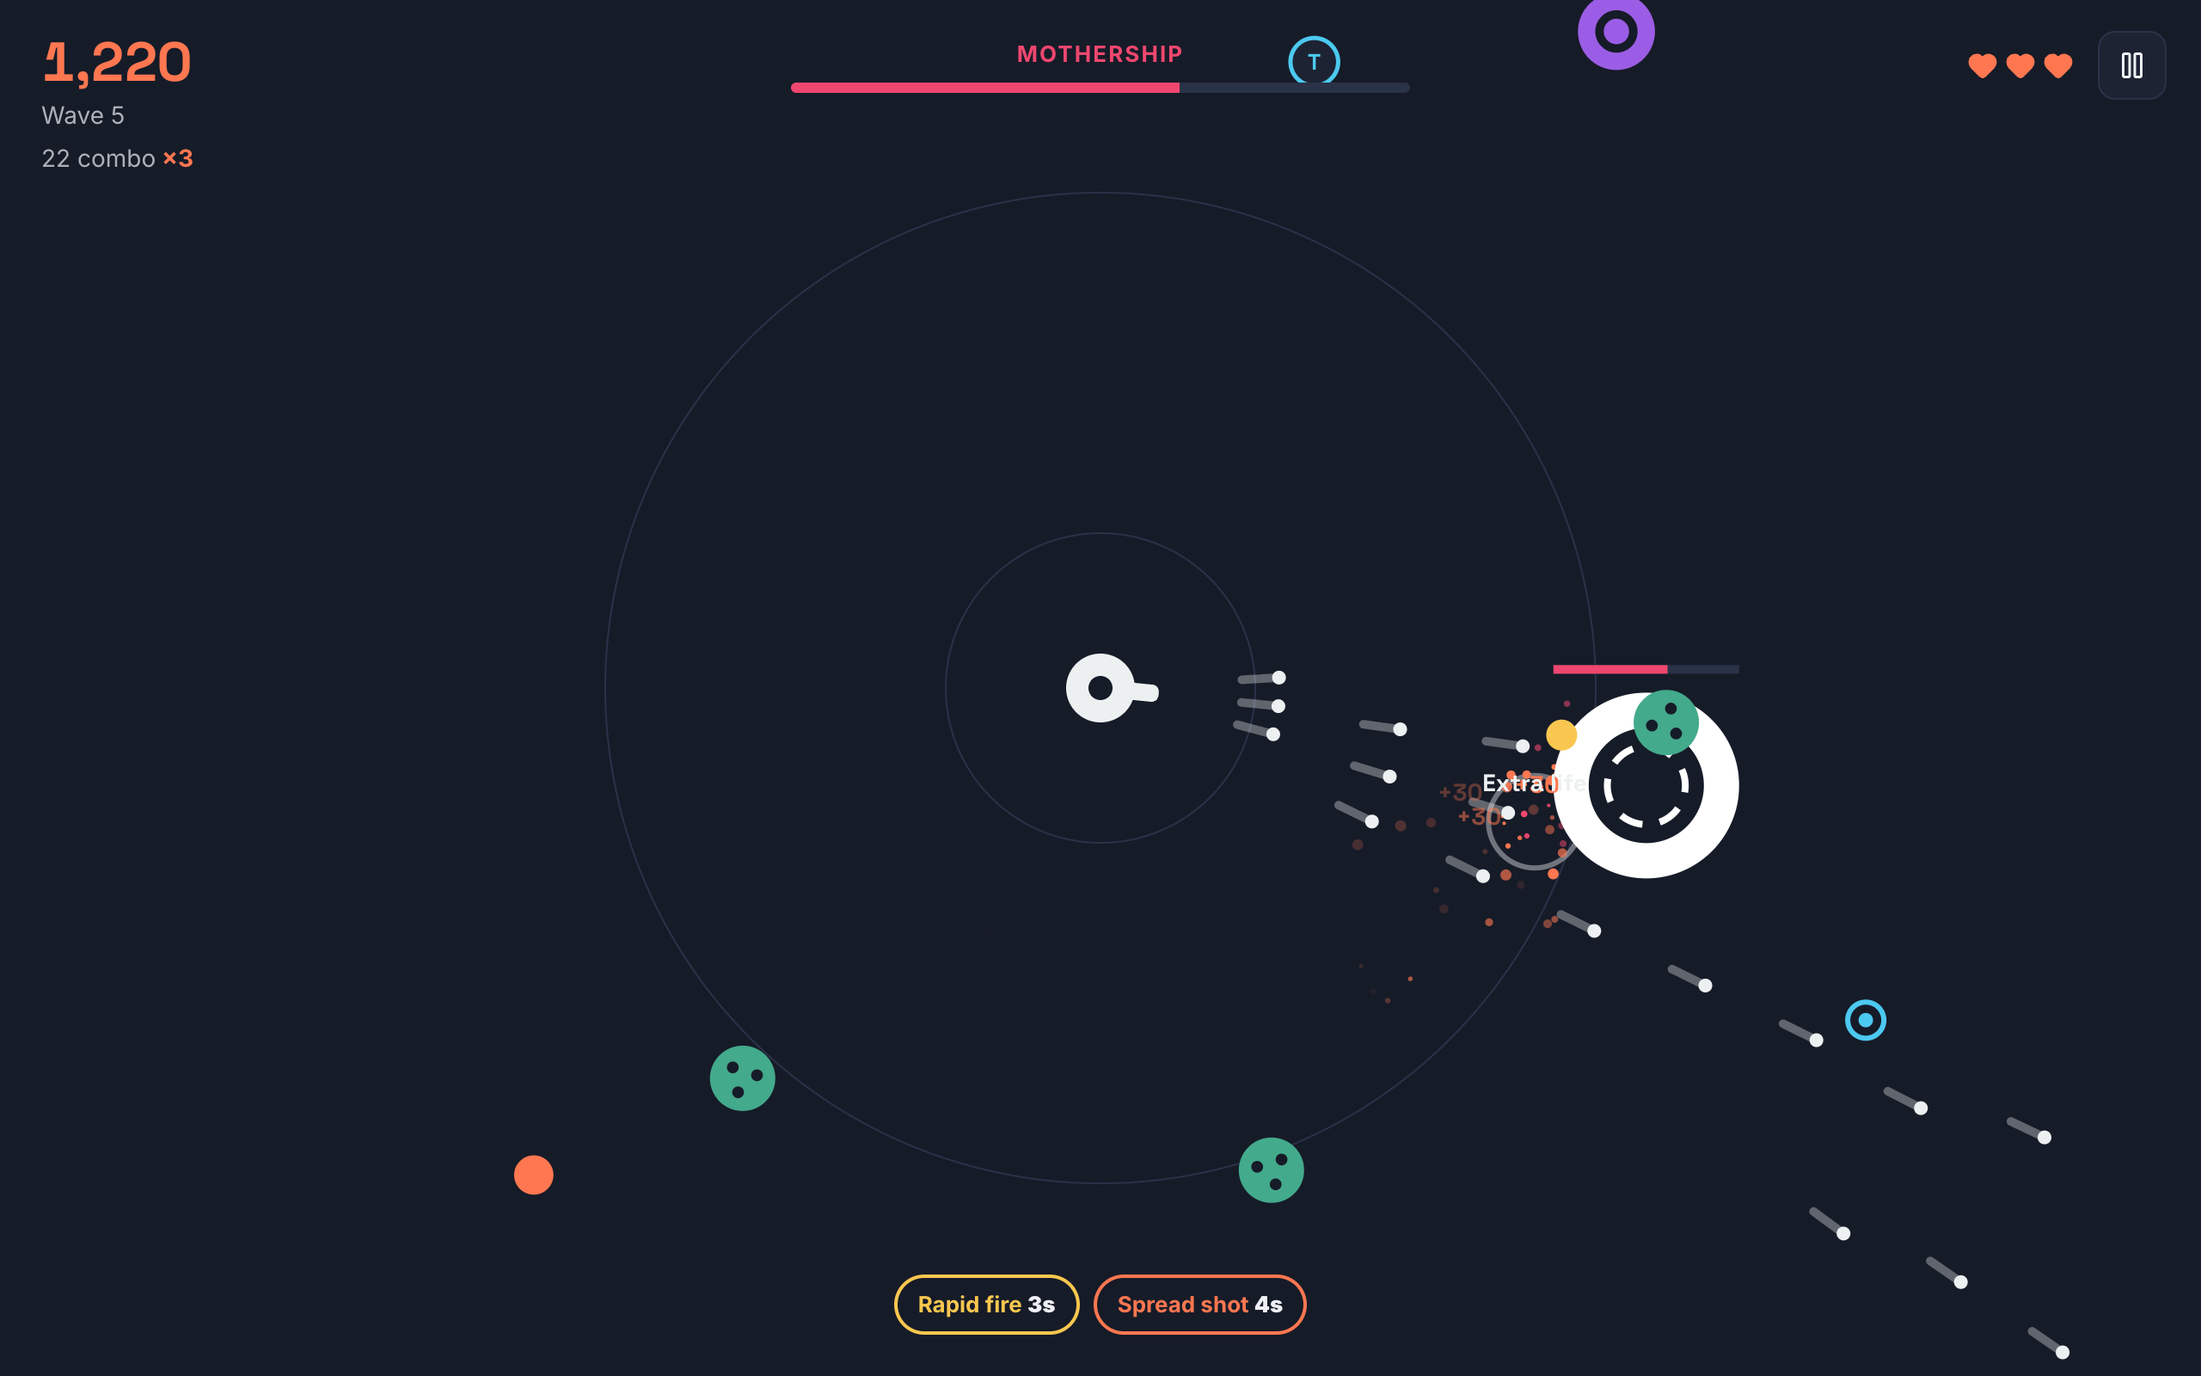
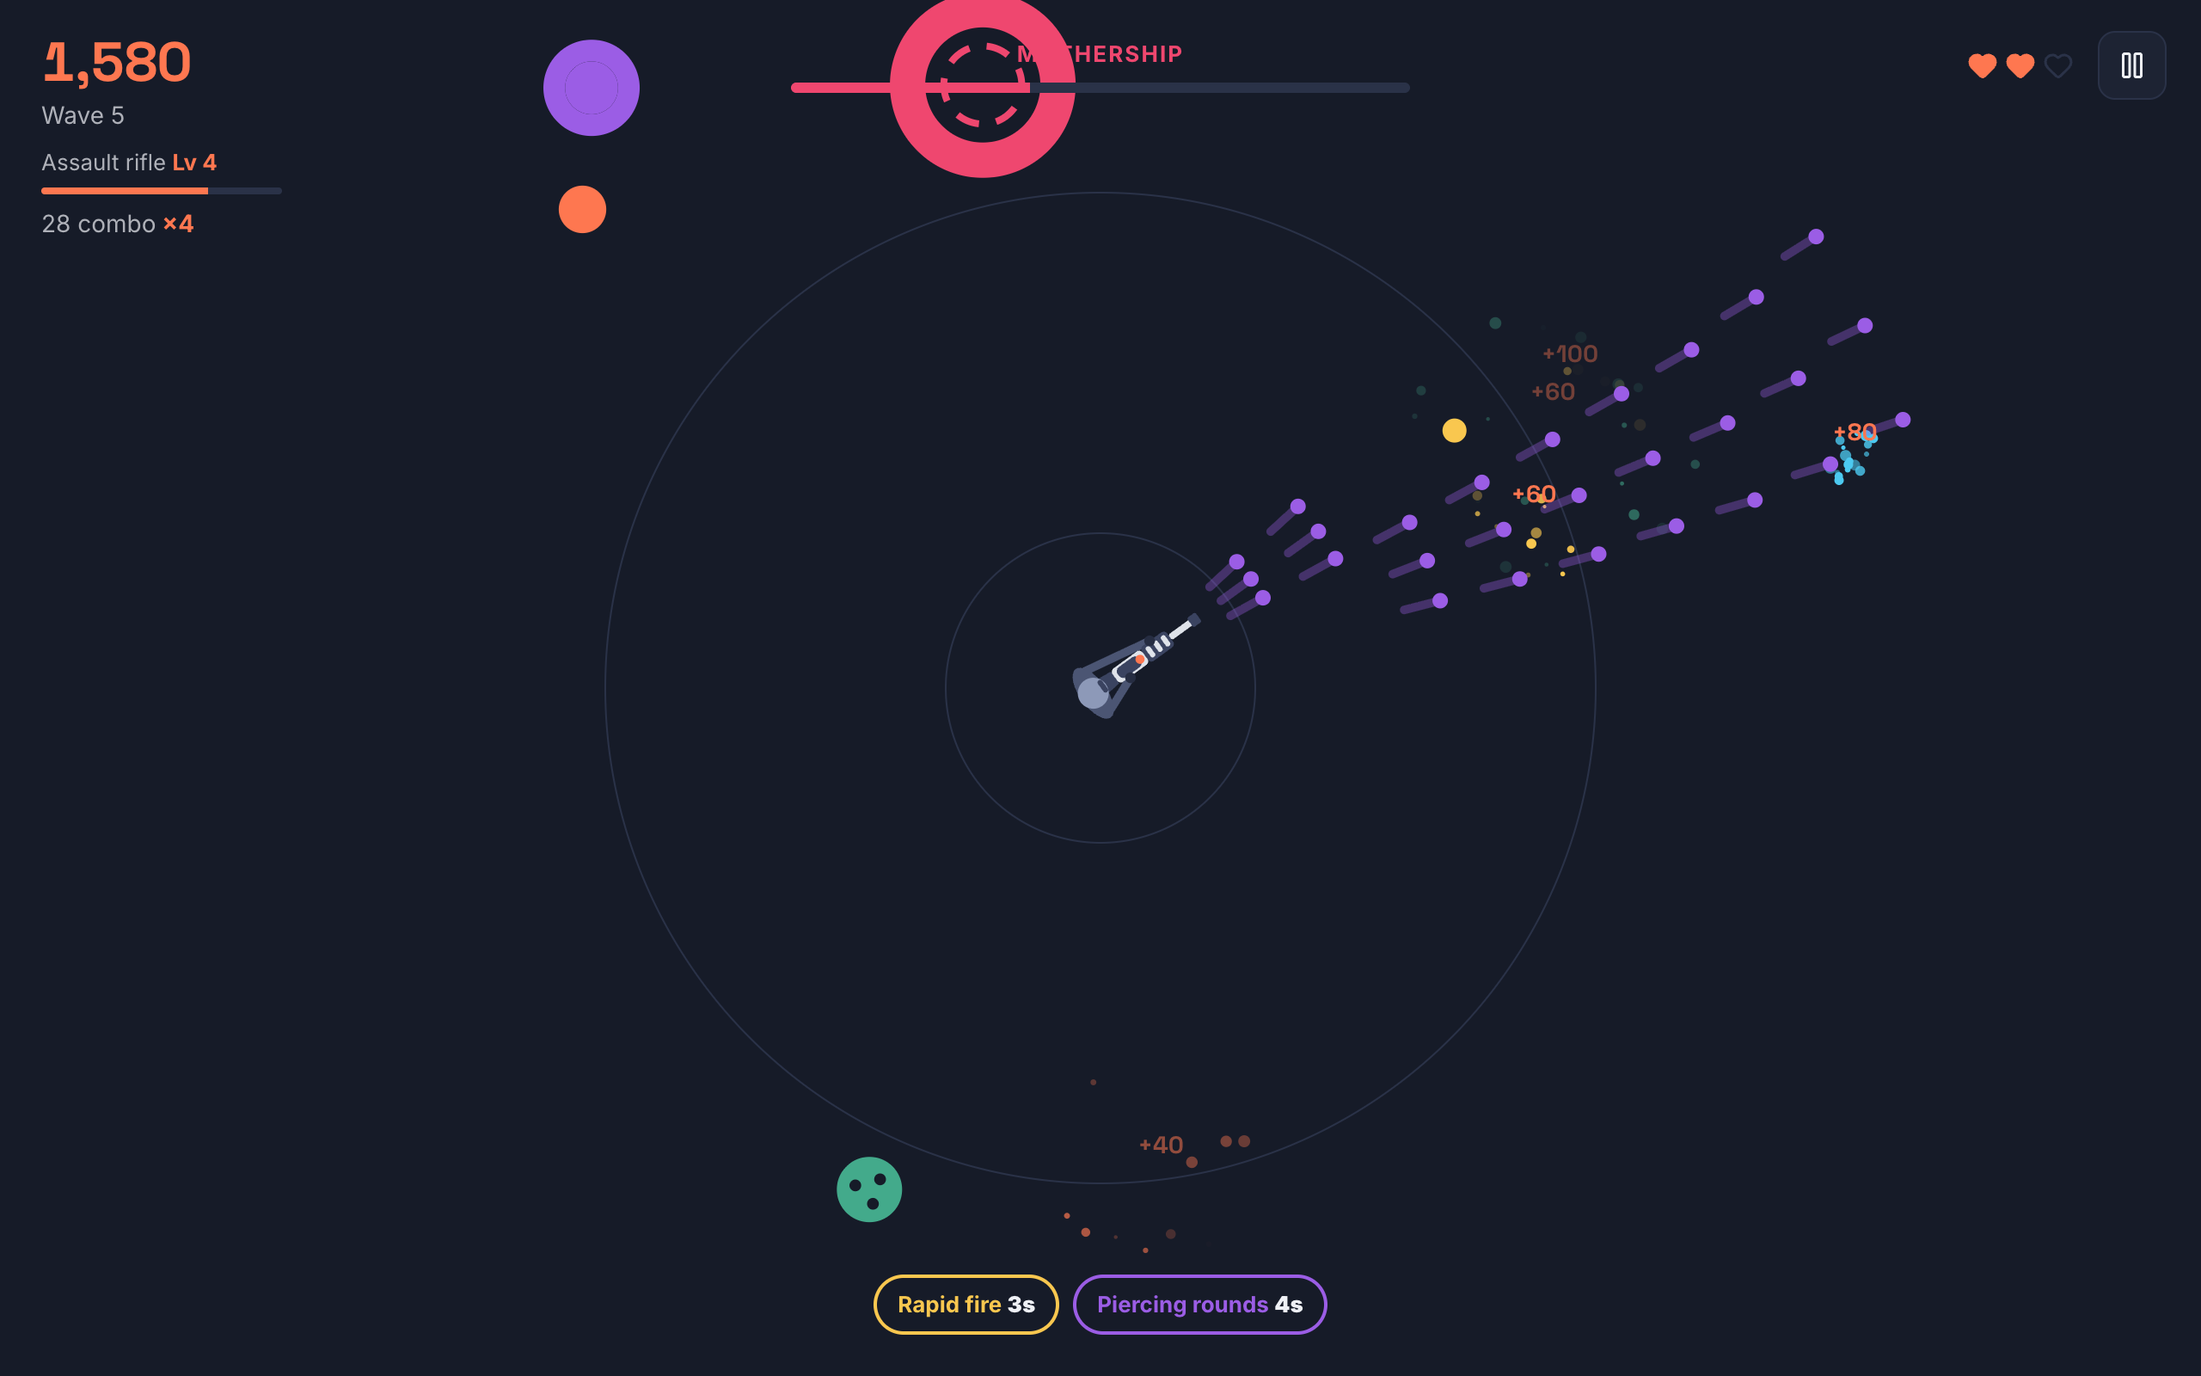
A gunner seen from above holding real-looking guns, with recoil and muzzle flash

diff --git a/lib/game/guns.ts b/lib/game/guns.ts
@@ -1,0 +1,192 @@
+import { COLORS } from "./config"
+
+const STEEL = "#dfe3ea"
+const DARK = "#3a4360"
+const VEST = "#4b5573"
+const GLOVE = "#262d42"
+const WOOD = "#9a6a48"
+const HELMET = "#8d99b8"
+const ACCENT = COLORS.primary
+const FLASH = "#ffd166"
+
+type Ctx = CanvasRenderingContext2D
+type Pt = [number, number]
+
+const box = (ctx: Ctx, x: number, y: number, w: number, h: number, r: number, color: string) => {
+  ctx.fillStyle = color
+  ctx.beginPath()
+  ctx.roundRect(x, y, w, h, r)
+  ctx.fill()
+}
+
+const shape = (ctx: Ctx, points: Pt[], color: string) => {
+  ctx.fillStyle = color
+  ctx.beginPath()
+  points.forEach(([x, y], i) => (i ? ctx.lineTo(x, y) : ctx.moveTo(x, y)))
+  ctx.closePath()
+  ctx.fill()
+}
+
+const dot = (ctx: Ctx, x: number, y: number, r: number, color: string) => {
+  ctx.fillStyle = color
+  ctx.beginPath()
+  ctx.arc(x, y, r, 0, Math.PI * 2)
+  ctx.fill()
+}
+
+const limb = (ctx: Ctx, from: Pt, to: Pt, width: number, color: string) => {
+  ctx.strokeStyle = color
+  ctx.lineWidth = width
+  ctx.lineCap = "round"
+  ctx.beginPath()
+  ctx.moveTo(...from)
+  ctx.lineTo(...to)
+  ctx.stroke()
+}
+
+/** A star-shaped flash in front of a muzzle */
+const flash = (ctx: Ctx, x: number, y: number, size: number) => {
+  shape(ctx, [[x + size * 1.8, y], [x + size * 0.4, y + size * 0.5], [x + size * 0.2, y + size], [x, y + size * 0.3], [x - size * 0.2, y], [x, y - size * 0.3], [x + size * 0.2, y - size], [x + size * 0.4, y - size * 0.5]], FLASH)
+}
+
+/** Guns are drawn this much bigger in the game than their drawing units */
+export const GUN_SCALE = 1.2
+
+/** How far in front of the gunner each muzzle is, so bullets leave from the barrel */
+export const MUZZLE = [36, 44, 54, 60, 64, 66]
+
+/** Where the hands hold each gun: trigger hand and support hand, along the gun */
+const HANDS: Array<[number, number]> = [
+  [16, 20],
+  [14, 28],
+  [16, 30],
+  [16, 34],
+  [16, 36],
+  [12, 30],
+]
+
+/** A gun seen from above, pointing along +x */
+const drawGun = (ctx: Ctx, level: number, spin: number, firing: boolean) => {
+  const m = MUZZLE[level - 1]
+  switch (level) {
+    case 1: {
+      // Pistol: slide with rear and front sights
+      box(ctx, 14, -3, 22, 6, 2, STEEL)
+      box(ctx, 15, -1.5, 3, 3, 1, DARK)
+      box(ctx, 20, -1, 10, 2, 1, DARK)
+      dot(ctx, 34, 0, 1.2, DARK)
+      if (firing) flash(ctx, m + 2, 0, 4.5)
+      break
+    }
+    case 2: {
+      // SMG: folded wire stock, body with a top rail, short barrel
+      ctx.strokeStyle = STEEL
+      ctx.lineWidth = 1.5
+      ctx.strokeRect(2, -3.5, 10, 7)
+      box(ctx, 10, -4, 24, 8, 2.5, STEEL)
+      for (let i = 0; i < 5; i++) box(ctx, 13 + i * 3.6, -1.5, 2, 3, 0.8, DARK)
+      box(ctx, 34, -2, 10, 4, 1, STEEL)
+      box(ctx, 41, -2.8, 3, 5.6, 1, DARK)
+      if (firing) flash(ctx, m + 2, 0, 5.5)
+      break
+    }
+    case 3: {
+      // Double barrel: wooden stock and fore-end, two barrels side by side
+      shape(ctx, [[-2, -5], [10, -4], [10, 4], [-2, 5]], WOOD)
+      box(ctx, 10, -5, 9, 10, 2, DARK)
+      box(ctx, 19, -5.2, 35, 4.4, 2, STEEL)
+      box(ctx, 19, 0.8, 35, 4.4, 2, STEEL)
+      box(ctx, 24, -5.5, 12, 11, 2, WOOD)
+      box(ctx, 52, -5.6, 2.5, 11.2, 1, DARK)
+      if (firing) {
+        flash(ctx, m + 2, -3, 4.5)
+        flash(ctx, m + 2, 3, 4.5)
+      }
+      break
+    }
+    case 4: {
+      // Assault rifle: stock, receiver with a scope, vented handguard, muzzle brake
+      shape(ctx, [[-4, -5], [10, -3.5], [10, 3.5], [-4, 5]], DARK)
+      box(ctx, 10, -4, 18, 8, 2, STEEL)
+      box(ctx, 12, -3, 13, 6, 2.5, DARK)
+      dot(ctx, 25, 0, 2.2, ACCENT)
+      box(ctx, 28, -4.5, 15, 9, 2, DARK)
+      for (let i = 0; i < 3; i++) box(ctx, 30 + i * 4.5, -3, 2.5, 6, 1, STEEL)
+      box(ctx, 43, -1.6, 13, 3.2, 1, STEEL)
+      box(ctx, 55, -2.8, 5, 5.6, 1, DARK)
+      if (firing) flash(ctx, m + 2, 0, 6)
+      break
+    }
+    case 5: {
+      // Machine gun: side-mounted ammo box, perforated shroud, folded bipod
+      shape(ctx, [[-4, -6], [10, -5], [10, 5], [-4, 6]], DARK)
+      box(ctx, 13, 5, 12, 9, 2, DARK)
+      box(ctx, 13, 8, 12, 2.5, 0, ACCENT)
+      box(ctx, 10, -5.5, 20, 11, 2.5, STEEL)
+      box(ctx, 13, -3.5, 12, 7, 2, DARK)
+      box(ctx, 30, -5, 22, 10, 2.5, DARK)
+      for (let i = 0; i < 4; i++) {
+        dot(ctx, 34 + i * 5, -2.2, 1.2, STEEL)
+        dot(ctx, 34 + i * 5, 2.2, 1.2, STEEL)
+      }
+      box(ctx, 34, -6.8, 14, 1.6, 0.8, STEEL)
+      box(ctx, 34, 5.2, 14, 1.6, 0.8, STEEL)
+      box(ctx, 52, -2, 7, 4, 1, STEEL)
+      box(ctx, 58, -3.5, 6, 7, 1.5, ACCENT)
+      if (firing) flash(ctx, m + 2, 0, 7)
+      break
+    }
+    default: {
+      // Minigun: motor housing, a cluster of spinning barrels held by clamps
+      box(ctx, 4, -8, 14, 16, 4, DARK)
+      box(ctx, 16, -7, 10, 14, 3, STEEL)
+      // The barrel cluster seen from above: the shaded one moves as they spin
+      const lit = Math.floor(spin) % 4
+      for (let i = 0; i < 4; i++) box(ctx, 26, -5.6 + i * 3, 37, 2.4, 1, i === lit ? VEST : STEEL)
+      box(ctx, 36, -7, 3.5, 14, 1.5, DARK)
+      box(ctx, 52, -7, 3.5, 14, 1.5, DARK)
+      box(ctx, 62, -7, 4, 14, 1.5, ACCENT)
+      if (firing) flash(ctx, m + 2, 0, 8)
+    }
+  }
+}
+
+/**
+ * The gunner seen from above, facing +x and holding the gun for `level` (1–6).
+ * `spin` turns the minigun's barrels; `firing` shows a muzzle flash.
+ */
+export const drawGunner = (ctx: Ctx, level: number, { spin = 0, firing = false } = {}) => {
+  const lv = Math.max(1, Math.min(6, level))
+  const [grip, fore] = HANDS[lv - 1]
+
+  // The minigun's ammo backpack and belt
+  if (lv === 6) {
+    box(ctx, -19, -10, 9, 20, 3, DARK)
+    ctx.strokeStyle = ACCENT
+    ctx.lineWidth = 3
+    ctx.setLineDash([2.5, 1.5])
+    ctx.beginPath()
+    ctx.moveTo(-15, 9)
+    ctx.quadraticCurveTo(-4, 20, 10, 8)
+    ctx.stroke()
+    ctx.setLineDash([])
+  }
+
+  // Shoulders, and arms reaching forward to the gun (under it, so the gun stays visible)
+  ctx.fillStyle = VEST
+  ctx.beginPath()
+  ctx.ellipse(-3, 0, 6.5, 14.5, 0, 0, Math.PI * 2)
+  ctx.fill()
+  limb(ctx, [0, 11], [grip, 4.5], 4, VEST)
+  limb(ctx, [0, -11], [fore, -4.5], 4, VEST)
+
+  drawGun(ctx, lv, spin, firing)
+
+  // Gloved hands gripping the sides of the gun
+  dot(ctx, grip, 4.5, 2.6, GLOVE)
+  dot(ctx, fore, -4.5, 2.6, GLOVE)
+
+  // Helmet
+  dot(ctx, -3, 0, 7.5, HELMET)
+  box(ctx, 1.5, -3.5, 2.5, 7, 1.2, DARK)
+}

diff --git a/lib/game/engine.ts b/lib/game/engine.ts
@@ -1,5 +1,6 @@
 import { BLITZ_SECONDS, COLORS, ENEMIES, GUNS, MAX_LIVES, MODES, POWERS, TIMED, type EnemyKind, type Mode, type PowerKind } from "./config"
 import { draw } from "./draw"
+import { GUN_SCALE, MUZZLE } from "./guns"
 
 export type Enemy = {
   id: number
@@ -131,6 +132,10 @@ export class Engine {
   shield = false
   gunLevel = 1
   gunXp = 0
+  /** Seconds since the last shot is under this: drives recoil and the muzzle flash */
+  muzzle = 0
+  /** How far the minigun's barrels have turned */
+  spin = 0
   invuln = 0
   shake = 0
   banner: { text: string; life: number } | null = null
@@ -277,6 +282,8 @@ export class Engine {
     if (!this.over) this.stats.seconds += real
     this.shake = Math.max(0, this.shake - real * 30)
     this.invuln = Math.max(0, this.invuln - real)
+    this.muzzle = Math.max(0, this.muzzle - real)
+    if (this.firing && !this.over) this.spin += real * 18
     if (this.banner && (this.banner.life -= real) <= 0) this.banner = null
     for (const k of TIMED) if (this.powers[k] !== undefined && (this.powers[k]! -= real) <= 0) delete this.powers[k]
     if (this.combo && (this.comboTimer -= real) <= 0) this.combo = 0
@@ -480,12 +487,14 @@ export class Engine {
     const base = Math.atan2(this.aim.y, this.aim.x)
     const c = this.center
     let fired = 0
+    this.muzzle = 0.06
     for (const off of angles) {
       const a = base + off
       for (const side of gun.offsets) {
         const sx = -Math.sin(base) * side
         const sy = Math.cos(base) * side
-        this.bullets.push({ x: c.x + sx + Math.cos(a) * (PLAYER_R + 12), y: c.y + sy + Math.sin(a) * (PLAYER_R + 12), vx: Math.cos(a) * BULLET_SPEED, vy: Math.sin(a) * BULLET_SPEED, r: gun.size, damage: gun.damage, pierce: !!this.powers.pierce, hit: new Set() })
+        const out = MUZZLE[this.gunLevel - 1] * GUN_SCALE
+        this.bullets.push({ x: c.x + sx + Math.cos(a) * out, y: c.y + sy + Math.sin(a) * out, vx: Math.cos(a) * BULLET_SPEED, vy: Math.sin(a) * BULLET_SPEED, r: gun.size, damage: gun.damage, pierce: !!this.powers.pierce, hit: new Set() })
         fired++
       }
     }

diff --git a/lib/game/config.ts b/lib/game/config.ts
@@ -62,7 +62,7 @@ export type Gun = {
   rate: number
   /** Angles of each bullet, in radians from where you aim */
   spread: number[]
-  /** Side-by-side barrels, in px from the middle (for twin guns) */
+  /** Side-by-side barrels, in px from the middle (for the double barrel) */
   offsets: number[]
   damage: number
   /** Bullet radius */
@@ -73,10 +73,10 @@ export type Gun = {
 
 /** Your gun levels up as you destroy enemies, and drops a level when you're hit */
 export const GUNS: Gun[] = [
-  { name: "Pea shooter", rate: 5, spread: [0], offsets: [0], damage: 1, size: 4, next: 8 },
-  { name: "Repeater", rate: 7, spread: [0], offsets: [0], damage: 1, size: 4, next: 14 },
-  { name: "Twin cannon", rate: 7, spread: [0], offsets: [-6, 6], damage: 1, size: 4, next: 20 },
-  { name: "Tri-blaster", rate: 8, spread: [-0.12, 0, 0.12], offsets: [0], damage: 1, size: 4.5, next: 28 },
-  { name: "Heavy tri-blaster", rate: 8, spread: [-0.12, 0, 0.12], offsets: [0], damage: 2, size: 5.5, next: 36 },
-  { name: "Storm cannon", rate: 9, spread: [-0.22, -0.11, 0, 0.11, 0.22], offsets: [0], damage: 2, size: 5.5, next: Infinity },
+  { name: "Pistol", rate: 5, spread: [0], offsets: [0], damage: 1, size: 4, next: 8 },
+  { name: "SMG", rate: 7, spread: [0], offsets: [0], damage: 1, size: 4, next: 14 },
+  { name: "Double barrel", rate: 7, spread: [0], offsets: [-3, 3], damage: 1, size: 4, next: 20 },
+  { name: "Assault rifle", rate: 8, spread: [-0.12, 0, 0.12], offsets: [0], damage: 1, size: 4.5, next: 28 },
+  { name: "Machine gun", rate: 8, spread: [-0.12, 0, 0.12], offsets: [0], damage: 2, size: 5.5, next: 36 },
+  { name: "Minigun", rate: 9, spread: [-0.22, -0.11, 0, 0.11, 0.22], offsets: [0], damage: 2, size: 5.5, next: Infinity },
 ]

diff --git a/lib/game/draw.ts b/lib/game/draw.ts
@@ -1,5 +1,6 @@
 import { COLORS, ENEMIES, POWERS } from "./config"
 import type { Engine, Enemy } from "./engine"
+import { drawGunner, GUN_SCALE } from "./guns"
 
 const TAU = Math.PI * 2
 
@@ -149,27 +150,11 @@ export const draw = (ctx: CanvasRenderingContext2D, g: Engine) => {
     ctx.save()
     ctx.translate(c.x, c.y)
     ctx.rotate(a)
-    // One barrel per bullet direction, wider for heavier rounds
-    const gun = g.gun
-    ctx.fillStyle = COLORS.player
-    const width = gun.damage > 1 ? 12 : 10
-    for (const off of gun.spread.length > 1 ? gun.spread : [0]) {
-      for (const side of gun.offsets) {
-        ctx.save()
-        ctx.rotate(off)
-        ctx.beginPath()
-        ctx.roundRect(8, side - width / 2, gun.spread.length > 3 ? 24 : 28, width, 4)
-        ctx.fill()
-        ctx.restore()
-      }
-    }
+    ctx.scale(GUN_SCALE, GUN_SCALE)
+    // Kicks back a little with every shot
+    ctx.translate(-(g.muzzle / 0.06) * 3, 0)
+    drawGunner(ctx, g.gunLevel, { spin: g.spin, firing: g.muzzle > 0.03 })
     ctx.restore()
-    ctx.fillStyle = COLORS.player
-    circle(ctx, c.x, c.y, 20)
-    ctx.fill()
-    ctx.fillStyle = COLORS.bg
-    circle(ctx, c.x, c.y, 7)
-    ctx.fill()
     if (g.shield) {
       ctx.strokeStyle = COLORS.shield
       ctx.lineWidth = 3

diff --git a/lib/achievements.ts b/lib/achievements.ts
@@ -17,7 +17,7 @@ export const ACHIEVEMENTS: Achievement[] = [
   { id: "sharpshooter", name: "Sharpshooter", blurb: "Finish a game with 75% accuracy or better (50 shots or more).", check: (r) => r.shots >= 50 && r.hits / r.shots >= 0.75 },
   { id: "combo-25", name: "On a roll", blurb: "Reach a 25 combo.", check: (r) => r.bestCombo >= 25 },
   { id: "combo-60", name: "Unstoppable", blurb: "Reach a 60 combo.", check: (r) => r.bestCombo >= 60 },
-  { id: "gun-max", name: "Fully loaded", blurb: "Upgrade your gun to the Storm cannon.", check: (r) => r.bestGun >= 6 },
+  { id: "gun-max", name: "Fully loaded", blurb: "Upgrade your gun to the Minigun.", check: (r) => r.bestGun >= 6 },
   { id: "boss", name: "Mothership down", blurb: "Destroy a Mothership.", check: (r) => r.kills.boss >= 1 },
   { id: "wave-10", name: "Holding the line", blurb: "Reach wave 10 in Classic.", check: (r) => r.mode === "classic" && r.wave >= 10 },
   { id: "wave-20", name: "Last turret standing", blurb: "Reach wave 20 in Classic.", check: (r) => r.mode === "classic" && r.wave >= 20 },

diff --git a/components/site/GunPreview.tsx b/components/site/GunPreview.tsx
@@ -1,0 +1,21 @@
+"use client"
+
+import { useEffect, useRef } from "react"
+import { drawGunner } from "@/lib/game/guns"
+
+/** The gunner holding a gun level, drawn exactly as in the game, facing right */
+const GunPreview = ({ level, width = 240, height = 96 }: { level: number; width?: number; height?: number }) => {
+  const ref = useRef<HTMLCanvasElement>(null)
+  useEffect(() => {
+    const canvas = ref.current!
+    const dpr = Math.min(window.devicePixelRatio || 1, 2)
+    canvas.width = width * dpr
+    canvas.height = height * dpr
+    const ctx = canvas.getContext("2d")!
+    ctx.setTransform(dpr * 2.4, 0, 0, dpr * 2.4, (width / 2 - 56) * dpr, (height / 2) * dpr)
+    drawGunner(ctx, level, { spin: 0.4 })
+  }, [level, width, height])
+  return <canvas ref={ref} style={{ width, height }} aria-hidden />
+}
+
+export default GunPreview

diff --git a/app/(site)/how-to-play/page.tsx b/app/(site)/how-to-play/page.tsx
@@ -1,4 +1,5 @@
 import type { Metadata } from "next"
+import GunPreview from "@/components/site/GunPreview"
 import { EnemyIcon, PowerIcon } from "@/components/site/Icons"
 import { ENEMIES, GUNS, MODES, POWERS, type EnemyKind, type Mode, type PowerKind } from "@/lib/game/config"
 import site from "@/components/site/Site.module.sass"
@@ -60,6 +61,7 @@ export default function HowToPlay() {
         <ol className={styles.guns}>
           {GUNS.map((g, i) => (
             <li key={g.name}>
+              <GunPreview level={i + 1} />
               <span className={styles.level}>Lv {i + 1}</span>
               <strong>{g.name}</strong>
               <span>

diff --git a/components/pages/Pages.module.sass b/components/pages/Pages.module.sass
@@ -56,6 +56,10 @@
     color: var(--text)
     font-size: 17px
 
+  canvas
+    align-self: center
+    margin-bottom: 8px
+
   .facts
     margin-top: 4px
 

diff --git a/README.md b/README.md
@@ -15,7 +15,7 @@ Built with Next.js, TypeScript and a hand-written canvas engine. No backend: sco
 ### The game
 - **Three modes:** Classic (endless waves, three lives, a boss every fifth wave), Blitz (90 seconds of nonstop enemies) and Hardcore (one life, faster enemies, double points)
 - **Six enemies:** drones, fast runners, zigzagging weavers, splitters that burst into runners, tough brutes that shrink as you hit them, and the Mothership boss, which circles you and launches drones
-- **Gun upgrades:** every kill fills your gun bar, and a full bar upgrades your gun for the rest of the game, through six levels from the Pea shooter to the five-way Storm cannon. Getting hit knocks it down a level
+- **Gun upgrades:** every kill fills your gun bar, and a full bar upgrades your gun for the rest of the game, through six real-looking guns, from a pistol to a minigun, held by your gunner (drawn from above). Getting hit knocks it down a level
 - **Seven power-ups**, dropped by enemies and collected by shooting them: rapid fire, spread shot, piercing rounds, slow time, shield, nuke and extra life
 - **Scoring** with combos (up to ×5), wave-clear bonuses and perfect-wave bonuses
 - Hit effects: particles, screen shake, shockwaves that push enemies back, and floating points
